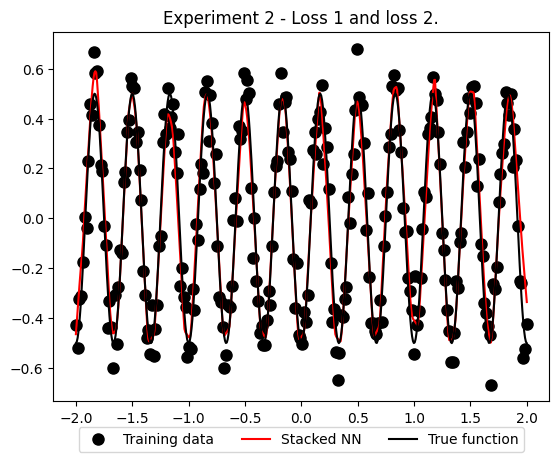
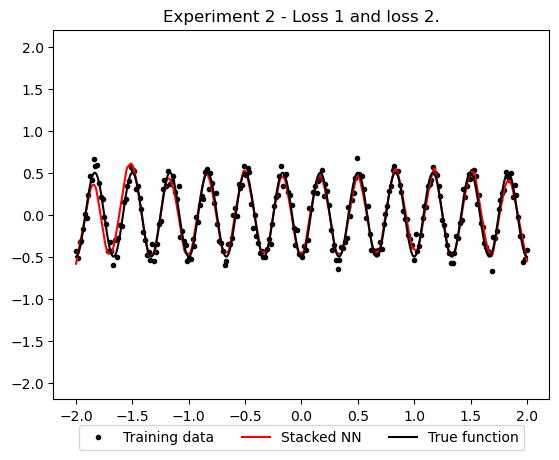
update plot

diff --git a/experiments/compositeSine/configs.py b/experiments/compositeSine/configs.py
@@ -1,0 +1,258 @@
+# %%
+from pathlib import Path
+from datetime import datetime
+import numpy as np
+import torch
+# import matplotlib.pyplot as plt
+
+from create_data import CreateData
+from nn_model import ExtendedModel
+from experiments import ExperimentManager
+import util
+import nn_model.util as nn_util
+
+
+
+# f_true functions
+def f_0(x, focus_ind=0):
+    return np.array([
+        1 * x[:,1]**2 - 0.4,
+        #0.1 * x[:,1]**2,
+        0.4 * np.sign(x[:,focus_ind]) * x[:,focus_ind]**2,
+        np.exp(x[:,focus_ind]) - 1,
+        x[:,focus_ind],
+        x[:,focus_ind]**2 - 0.25,
+        x[:,focus_ind]**3,
+        -1 * np.exp(-x[:,focus_ind]) + 0.5,
+        -3 * x[:,focus_ind],
+        -3 * np.sign(x[:,focus_ind]) * x[:,focus_ind]**2,
+        -3 * x[:,focus_ind]**3
+        -0.5 * np.exp(x[:,focus_ind] - 1),
+        -3 * (x[:,focus_ind] - 1),
+        -3 * (x[:,focus_ind] - 1)**2 + 1.5,
+        -3 * (x[:,focus_ind] - 1)**3,
+        1 * np.exp(x[:,focus_ind] + 1) - 1,
+        2 * (x[:,focus_ind] + 1),
+        2 * np.sign(x[:,focus_ind]) * (x[:,focus_ind])**2,
+        2 * (x[:,focus_ind] + 1)**3,
+        0.2 * np.exp(x[:,focus_ind] + 0.5),
+        0.2 * (x[:,focus_ind] + 0.5),
+        0.2 * (x[:,focus_ind] + 0.5)**2,
+        0.2 * (x[:,focus_ind] + 0.5)**3,
+        -x[:,focus_ind]**2 + 0.5,
+        x[:,focus_ind]**2,
+        0.5 * np.sign(x[:,focus_ind]) * x[:,focus_ind]**2,
+        2 * x[:,focus_ind]**3,
+        4 * np.sign(x[:,focus_ind]) * x[:,focus_ind]**2,
+        -np.sign(x[:,focus_ind]) * x[:,focus_ind]**2,
+        8 * x[:,focus_ind],
+        256 * np.sign(x[:,focus_ind]) * x[:,focus_ind]**2,
+        1024 * x[:,focus_ind],
+        64 * x[:,focus_ind]**3,
+        -100 * np.sign(x[:,focus_ind]) * x[:,focus_ind]**2
+    ]).T
+
+
+
+def f_1(x, focus_ind=0):
+    return np.array([
+        np.sin(np.pi*x[:,focus_ind])
+    ]).T
+
+
+
+def f_2(x, focus_ind=0):
+    return np.stack([x[:,focus_ind]**2 -0.5, 2.0*(x[:,focus_ind]<0.3)*(x[:,focus_ind]-0.3)+1], axis=1)
+
+
+
+def f_3(x, focus_ind=0):
+    return util.function_library('compositeSine')(x)
+
+# defer config to bash script to run code?
+
+config_0 = {
+    'd_in': 2, #[2, 8, 24], # >= 2
+    'd_out': 32,
+    'f_true': f_0,
+    'focus_ind': 0
+}
+
+config_1 = {
+    'd_in': 1,
+    'd_out': 1,
+    'f_true': f_1,
+    'focus_ind': 0
+}
+
+config_2 = {
+    'd_in': 1, # >= 2
+    'd_out': 2,
+    'f_true': f_2,
+    'focus_ind': 0
+}
+
+config_3 = {
+    'd_in': 1, # >= 1
+    'd_out': 7,
+    'f_true': f_3,
+    'focus_ind': 0
+}
+
+config_function = config_3
+
+# loss_ratio = util.create_loss_ratio(config_function['d_out'])
+
+# configs file
+configs_data = {
+    # data parameters
+    'n_samples': [256],
+    'noise_scale': .1,
+    'x_min': -2,
+    'x_max': 2,
+    'n_val': 512,
+}
+configs_data.update(config_function)
+
+configs_architecture = {
+    # architecture parameters
+    'architecture_key': 'Stack', # ['Stack', 'NTK'],
+    'depth': 3, #], #,[1, 2, 6],
+    'width': 512, #[16, 64, 256, 512, 2048, 8192], # for NTK
+    'bottleneck_width': 256, # [16, 256, 512], # for Stack
+    'variable_width': 1024, #[1024, 2048, 4096, 8192], #], #  [16, 256, 2048, 8192], # for Stack
+    'linear_skip_conn': False, # for Stack
+    'linear_skip_conn_width': 64, # for Stack
+    'skip_conn': False, # for Stack
+    'hidden_bottleneck_activation': nn_util.linear_activation, # for Stack
+    'hidden_layer_activation': torch.nn.ReLU, # for NTK
+}
+configs_architecture.update(config_function)
+
+configs_traininig = {
+    # training parameters
+    'criterions': [[nn_util.dimred_MSELoss([0]), nn_util.dimred_MSELoss(np.arange(1, 7))]],
+    'shuffle': True,
+    'epochs': 2048, #[1024, 4096], # 4096,
+    'batch_size': 64, #[64, 256],
+    'regularization_alpha': 0.1, #[0.1, 0.01, 0],
+    'regularization_ord': 2,
+    'learning_rate': [0.0001],
+    'update_rule': torch.optim.Adam, 
+    'separate_loss_batching': True,
+}
+
+
+
+
+# %% cell 1
+# TODO create new script handling data creation, model initialization and training + loss activity 
+# or “new” ExperimentManager
+# TODO integrate 1d plotting into extended model and the ExperimentManager (automatic recognition/keyword)
+np.random.seed(seed=24)
+manager = ExperimentManager(ExtendedModel, CreateData)
+configs_data_list, configs_architecture_list, configs_traininig_list = manager.grid_config_lists(
+    configs_data, 
+    configs_architecture, 
+    configs_traininig
+)
+timestamp = datetime.now().strftime('%H-%M_%d.%m.%Y')
+# manager.do_exerimentbatch(configs_data_list, configs_architecture_list, configs_traininig_list, 'experiments_{}'.format(timestamp), save_fig=False)
+# %% cell 2
+# replace the cell above by the ExperimentManager (allowing for robust documentation?!)
+# data_dict = {
+#     'x_train': x_train,
+#     'y_train': y_train,
+#     'x_val': x_val,
+#     'y_val': y_val
+# }
+# config_ = configs
+# config_['epochs'] = 5
+# config_['epochs'] = 1
+# manager = ExperimentManager(nn_model, data_dict)
+# manager.do_exerimentbatch([configs, config_], 'test_experiment')
+
+# %% cell 3
+# create data and model
+data = CreateData(
+    **configs_data_list[0]
+)
+
+nn_model = ExtendedModel(
+    **configs_architecture_list[0]
+)
+
+# set all involved tensors to device gpu/cpu
+device = torch.device('cuda:0' if torch.cuda.is_available() else 'cpu') # send all tensors to device, i.e. data in traininig and model
+
+# create 64 samples for loss 1 and 256 samples for loss 2
+n_samples_1 = 256
+x_max_1 = [0]
+data.config['n_samples'] = n_samples_1
+data.config['x_max'] = x_max_1
+y_train_1, x_train_1 = data.create_training_data() 
+
+n_samples_2 = 0
+x_max_2 = [2]
+data.config['n_samples'] = n_samples_2
+data.config['x_max'] = x_max_2
+y_train_2, x_train_2 = data.create_training_data() 
+
+x_train = torch.cat((x_train_1, x_train_2), dim=0).to(device)
+y_train = torch.cat((y_train_1, y_train_2), dim=0).to(device)
+
+
+x_val = data.x_val # .to(device)
+y_val = data.y_val # .to(device)
+nn_model.to(device)
+
+# sort x_val
+ind_sort = torch.argsort(x_val.detach(), axis=0)[:, 0]
+x_val = x_val[ind_sort]
+y_val = y_val[ind_sort]
+
+# train the model on the given data
+loss_activity = torch.cat((1 * torch.ones(n_samples_1) , 2 * torch.ones(n_samples_2)))
+nn_model.train(
+    x_train, 
+    y_train,
+    loss_activity, 
+    **configs_traininig_list[0]
+)
+
+# nn_model.plot2d(x_train, y_train, -1 , 1, -3, 3, save=True, dirname=Path().cwd() / 'figures')
+
+
+# # evaluate the trained model by plots
+# plt.plot(data.x_val[:,1], data.y_val[:,0], 'g.')
+# plt.plot(data.x_val[:,1], nn_model.forward(data.x_val).detach()[:,0], 'r.')
+# plt.show()
+
+# for targ_func in range(1, 32):
+#     plt.plot(data.x_val[:,0], data.y_val[:,targ_func], 'g.')
+#     plt.plot(data.x_val[:,0], nn_model.forward(data.x_val).detach()[:,targ_func], 'r.')
+#     plt.show()
+# %% cell 4
+# loading model - previously need to initialize model in cell 3 
+# path = Path().cwd() / 'experiments_13-50_19.06.2022' / 'experiment_0' / 'nn_model_weights.pt'
+# path = Path().cwd() / 'experiments_14-33_19.06.2022' / 'experiment_0' / 'nn_model_weights.pt'
+
+# nn_model.load_state_dict(torch.load(path))
+
+import matplotlib.pyplot as plt
+fig_folder = Path().cwd() / 'exp_1'
+for i in range(7):
+    plt.figure()
+    if i == 0:
+        plt.plot(x_train_1, y_train_1[:,i], 'ko', markersize=8, label='Training data')
+    else:
+        plt.plot(x_train_2, y_train_2[:,i], 'ko', markersize=8, label='Training data')
+    plt.plot(x_val.detach(), nn_model(x_val).detach()[:,i], 'r-', label='Stacked NN')
+    plt.plot(x_val.detach(), y_val.detach()[:,i], 'k-', label='True function')
+    plt.title('Experiment 1 - Loss 1.')
+    plt.legend(loc='upper center', bbox_to_anchor=(0.5, -0.05), fancybox=True, ncol=3)
+    plt.savefig(fig_folder / 'temp_fig_{}.png'.format(i), bbox_inches="tight")
+# %%
+# Stack: depth 3, widths 256/1024
+# NTK:  depth 6, width 
+# %%

diff --git a/main.py b/main.py
@@ -244,11 +244,12 @@ fig_folder = Path().cwd() / 'exp_1'
 for i in range(7):
     plt.figure()
     if i == 0:
-        plt.plot(x_train_1, y_train_1[:,i], 'ko', markersize=8, label='Training data')
+        plt.plot(x_train_1, y_train_1[:,i], 'ko', markersize=3, label='Training data')
     else:
-        plt.plot(x_train_2, y_train_2[:,i], 'ko', markersize=8, label='Training data')
+        plt.plot(x_train_2, y_train_2[:,i], 'ko', markersize=3, label='Training data')
     plt.plot(x_val.detach(), nn_model(x_val).detach()[:,i], 'r-', label='Stacked NN')
     plt.plot(x_val.detach(), y_val.detach()[:,i], 'k-', label='True function')
+    plt.ylim(top=2.2, bottom=-2.2) 
     plt.title('Experiment 1 - Loss 1.')
     plt.legend(loc='upper center', bbox_to_anchor=(0.5, -0.05), fancybox=True, ncol=3)
     plt.savefig(fig_folder / 'temp_fig_{}.png'.format(i), bbox_inches="tight")
